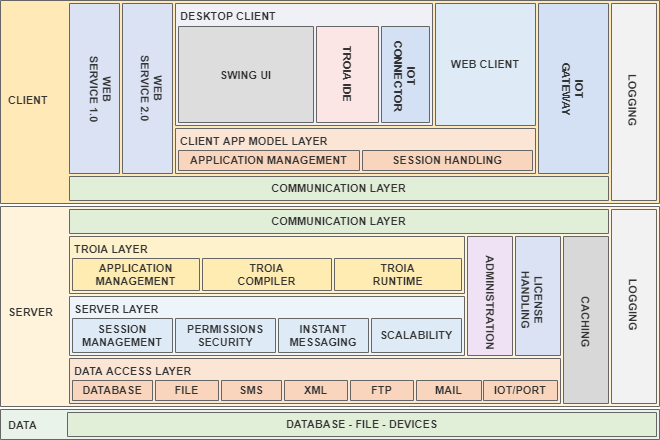
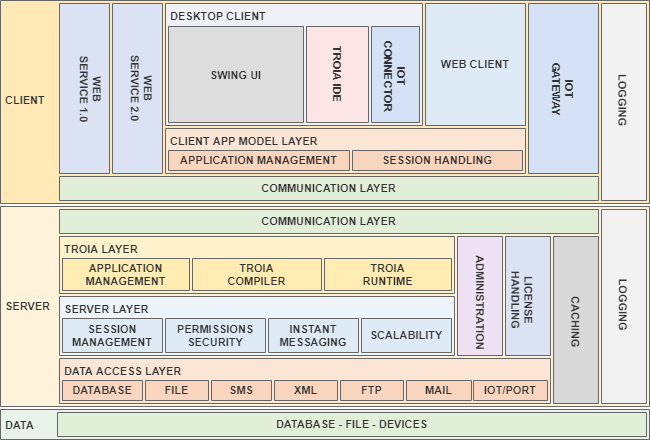
.

diff --git a/docs/03Platformbasics.rst b/docs/03Platformbasics.rst
@@ -157,7 +157,7 @@ Software Architecture Overview
 Basically, TROIA Platform allows programmer to develop applications that access data, manipulate it and save. To understand platform architecture its very important to understand the roles of application server and client(s). The graphic below, shows the main structures and layers of TROIA Platform from user interface to data. Also, it's possible to understand responsibility/functionality share of application server and client. 
 
 .. figure:: images/platformbasics/software-architecture.png
-   :width: 660 px
+   :width: 650 px
    :target: images/platformbasics/software-architecture.png
    :align: center
 
